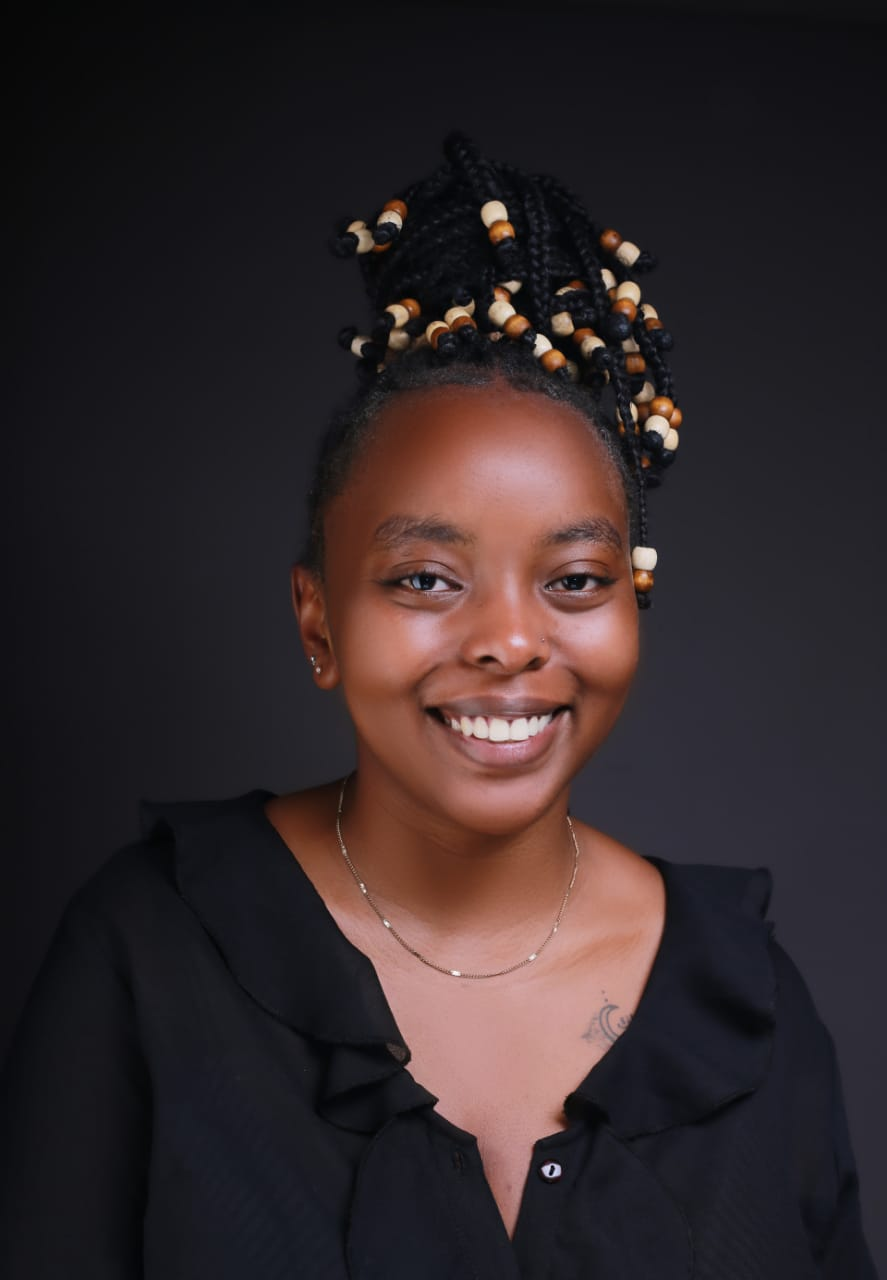
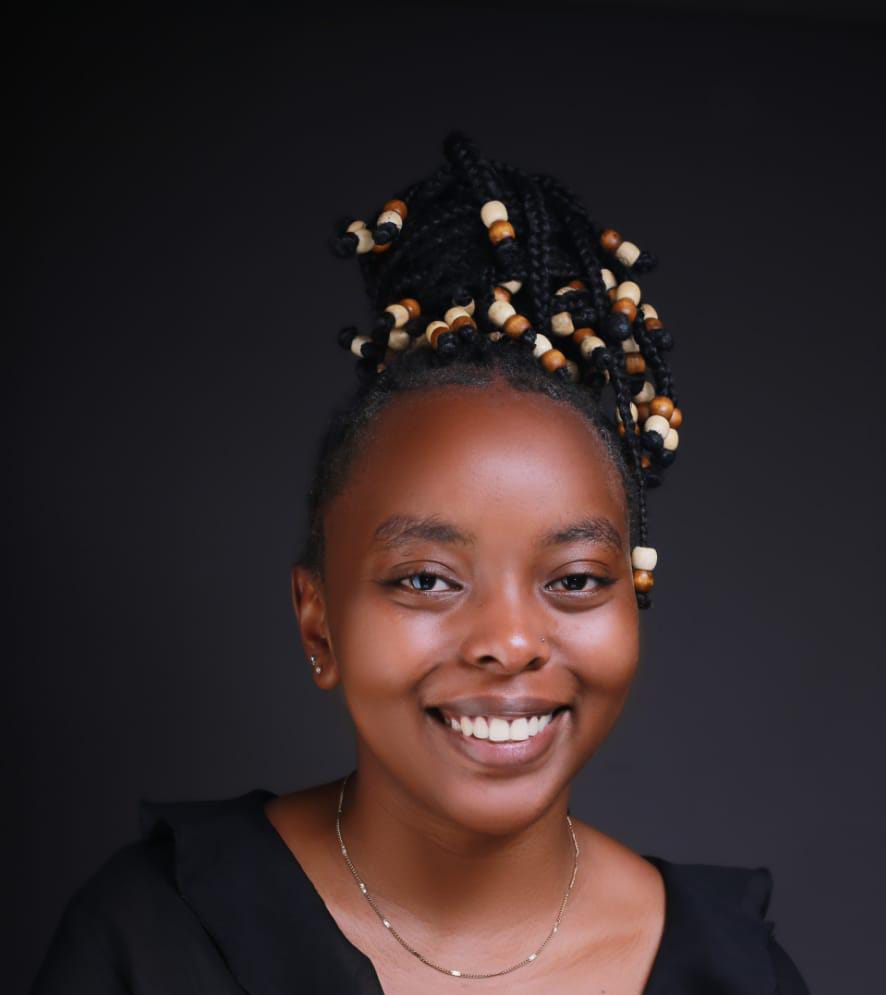
Added biography styling, updated biography image, changed about the curator heading to biography and removed initial biography heading

Changed region(s): [[0.2743, 0.1558, 0.8837, 1.0], [0.8837, 0.9035, 1.0, 1.0], [0.1828, 0.8412, 0.2133, 0.8724]]

diff --git a/index.html b/index.html
@@ -55,14 +55,13 @@
     </section>
 
     <section id="biography">
-        <h1>Biography</h1>
         <div class="bio-container">
             <div class="bio-image">
                 <img src="./Images/biography.jpg" alt="Julie Waimiri, Curator">
             </div>
             <div class="bio-content">
-                <h2>About the Curator</h2>
-                <p>Rogue Lens, curated by Julie Waimiri, was an independent project that allowed her to embark on a visual journey of discovery,<br><br>curating a collection of photographs that celebrate the beauty and diversity of the human experience. <br><br> From intimate portraits that capture the essence of individual souls to breathtaking wildlife encounters that showcase the raw beauty of the natural world, this collection reflects her passion for exploring the world through a unique lens.</p>
+                <h2>Biography</h2>
+                <p>Rogue Lens, curated by Julie Waimiri, was an independent project that allowed her to embark on a visual journey of discovery,<br><br>curating a collection of photographs that celebrate the beauty and diversity of the human experience. <br><br> From intimate portraits that capture the essence of individual souls to breathtaking wildlife encounters that showcase the raw beauty of the natural<br><br>world, this collection reflects her passion for exploring the world through a unique lens.</p>
             </div>
         </div>
     </section>

diff --git a/style.css b/style.css
@@ -173,3 +173,32 @@ header nav ul li::after{
   .category-btn:hover {
     background: #e69592b6;
   }
+/* Biography Styles */
+#biography {
+  padding: 80px 5%;
+  background-color: #e6c8c8;
+}
+
+.bio-container {
+  display: grid;
+  grid-template-columns: 1fr 2fr;
+  gap: 50px;
+  align-items: center;
+}
+
+.bio-image img {
+  width: 500px;
+  border-radius: 60px;
+}
+
+.bio-content h2 {
+  margin-bottom: 30px;
+  font-size: 36px;
+  color: #553f2d;
+}
+
+.bio-content p {
+  margin-bottom: 20px;
+  line-height: 1.6;
+  color: #313030;
+}
